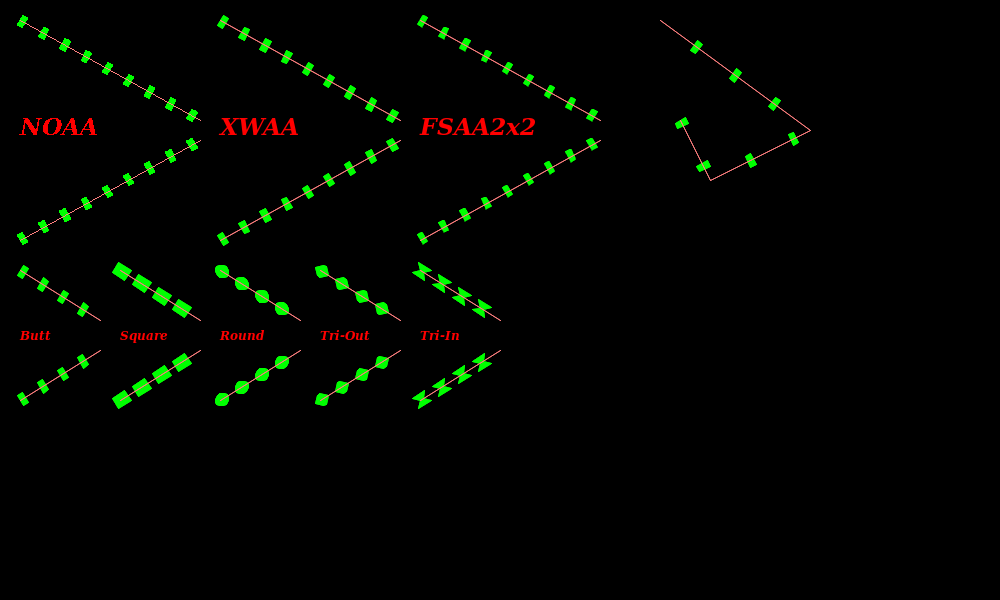
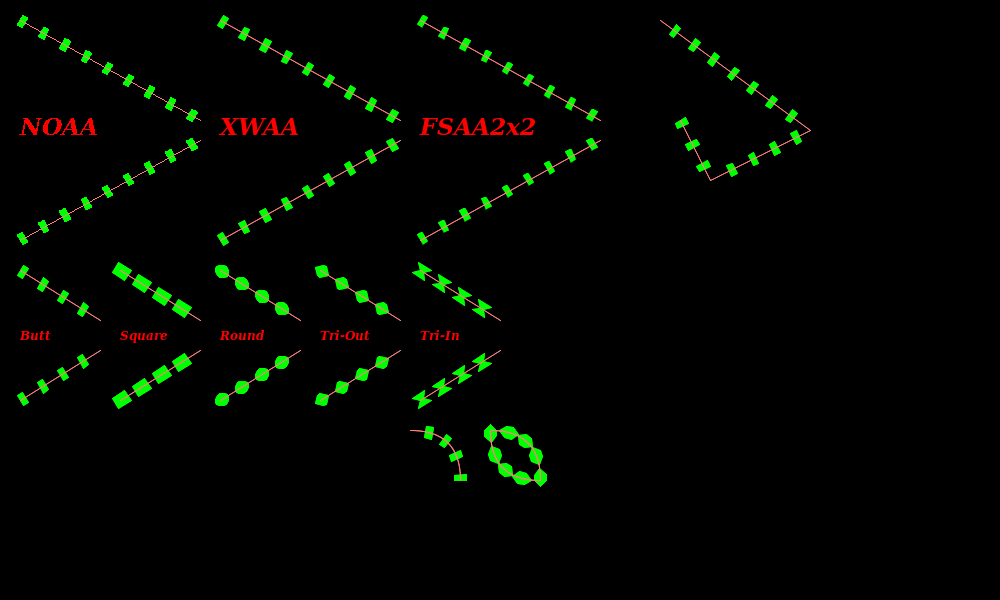
Working on thick polygon

diff --git a/src/Pt-Gfx/ImagePainter2.cpp b/src/Pt-Gfx/ImagePainter2.cpp
@@ -1574,7 +1574,7 @@ bool ImagePainter2::thickenPatternedPolygon(std::vector<PointF>& pointsF, const 
     */
 
     // Calculate the cell size
-    const float cellSize = _rasterizer->pen().size() * 0.5f;
+    const float cellSize = _rasterizer->pen().size() * 0.25f;
 
     // Initialize the operational state
     SAGOpState state(pointsF, src, pointCount, cellSize);
@@ -1649,8 +1649,8 @@ bool ImagePainter2::sagPolygonPoints(SAGOpState& state, bool draw)
             state.ey     = y2;
             state.uvx    = vx / vz;
             state.uvy    = vy / vz;
-            state.cvx    = vx / round(vz / state.cellSize) * 2;
-            state.cvy    = vy / round(vz / state.cellSize) * 2;
+            state.cvx    = vx / round(vz / state.cellSize) * 4;
+            state.cvy    = vy / round(vz / state.cellSize) * 4;
             state.cvl    = Gfx::Math::fastSqrt(state.cvx * state.cvx + state.cvy * state.cvy);
             state.remLen = vz;
             lprintf("    Initialize: px = %5.1f ; py = %5.1f ; ex = %5.1f ; ey = %5.1f ; cvx = %5.1f; cvy = %5.1f; cvl = %5.1f; remLen = %5.1f ; patSegLen = %5.1f ; from index [%2zd, %2zd]\n",

diff --git a/src/Pt-Gfx/tests/ImagePainterTest2_Draw_Thick.cpp b/src/Pt-Gfx/tests/ImagePainterTest2_Draw_Thick.cpp
@@ -141,7 +141,7 @@ static void testDrawThickLine_impl(
             else painter.drawPolyline( poly1a, sizeof(poly1a) / sizeof(poly1a[0]) );
         }
     }
-    if(!true && ip2) {
+    if(true && ip2) {
         ip2->setPen(penBCapBJoin);
         const PointF bezier1a[] = { // CCW
             PointF(150 + 310, 150 + 330),
@@ -154,7 +154,7 @@ static void testDrawThickLine_impl(
             ip2->drawQuadraticPolybezier( bezier1a, sizeof(bezier1a) / sizeof(bezier1a[0]), false );
         }
     }
-    if(!true && ip2) {
+    if(true && ip2) {
         const PointF bezier2a[] = { // CCW
             PointF(100 + 390, 100 + 330),
             PointF(100 + 390, 150 + 330),
